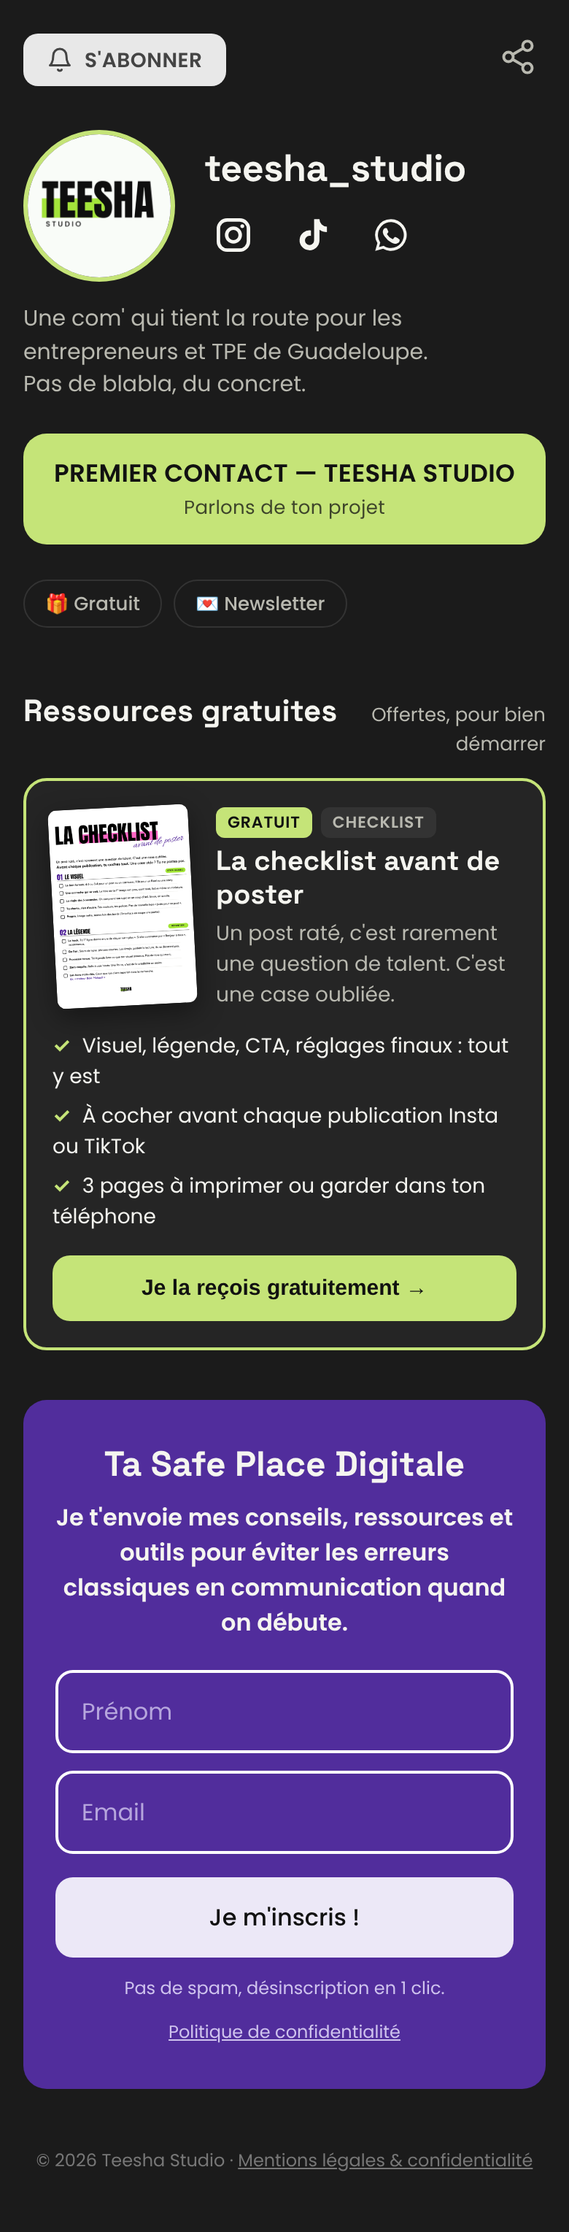
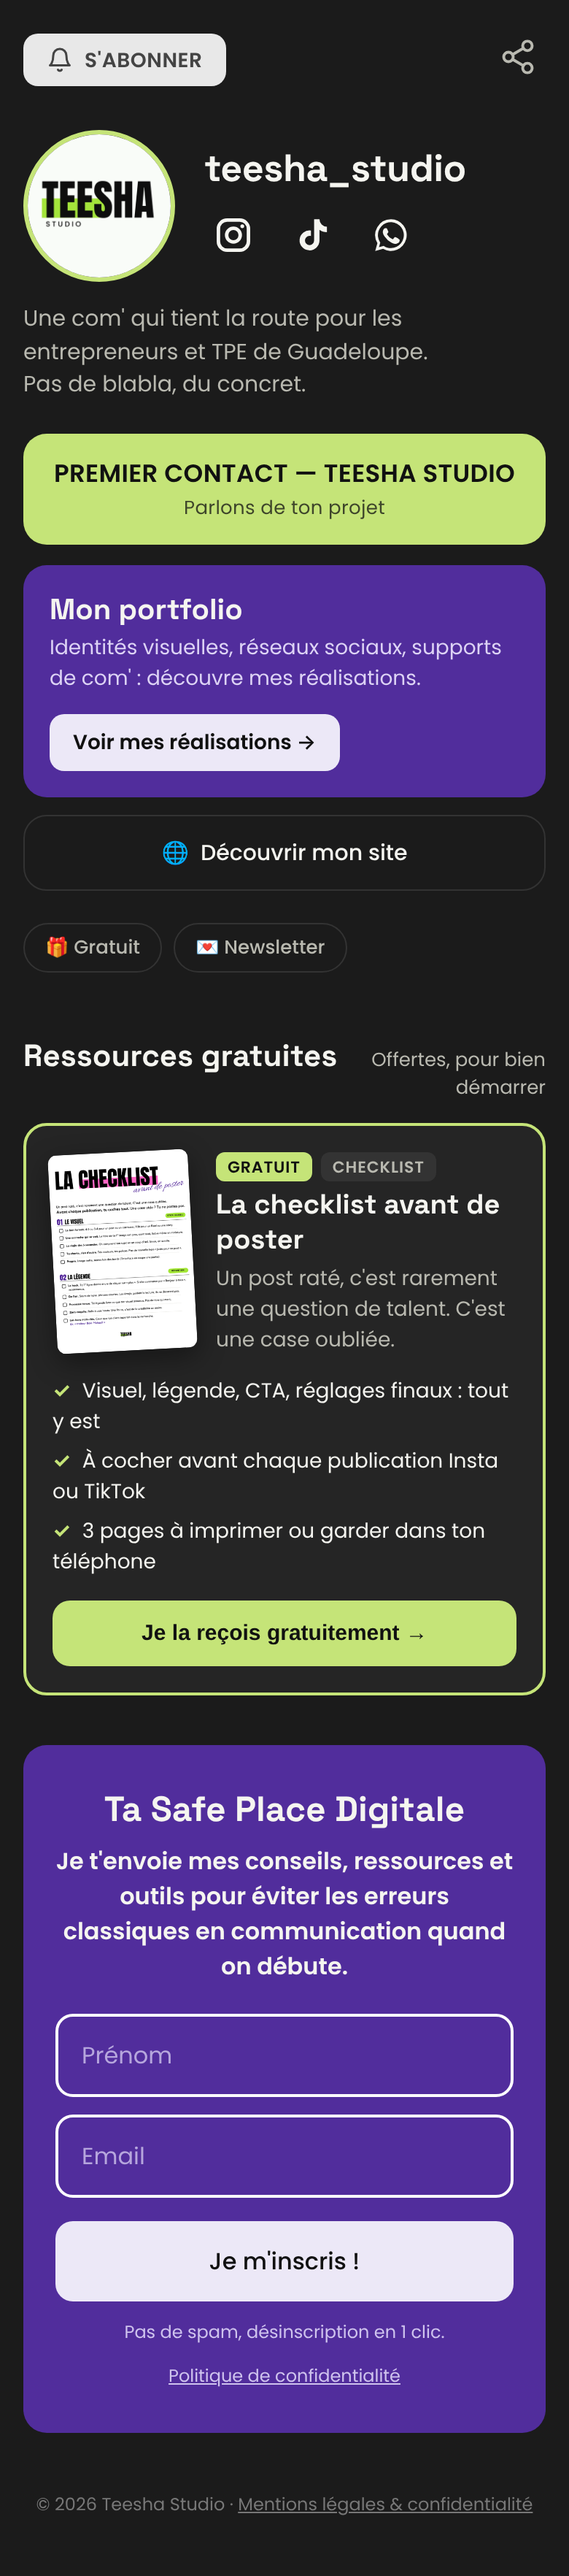
Add portfolio block and website button
Claude-Session: https://claude.ai/code/session_011nCQV3JxixBNaoiRmt3bag

diff --git a/link-in-bio/index.html b/link-in-bio/index.html
@@ -111,6 +111,25 @@
     .lien-principal small { text-transform: none; font-weight: 400; font-size: 13px; opacity: .75; }
     .lien-principal:hover { transform: translateY(-2px); box-shadow: 0 6px 0 var(--citron-fonce); }
 
+
+    /* Portfolio */
+    .portfolio {
+      display: block; background: var(--violet); border-radius: var(--rayon);
+      padding: 18px; margin-bottom: 12px; transition: transform .15s;
+    }
+    .portfolio:hover { transform: translateY(-2px); }
+    .portfolio-apercus { display: grid; grid-template-columns: repeat(3, 1fr); gap: 8px; margin-bottom: 14px; }
+    .portfolio-apercus img { width: 100%; aspect-ratio: 1; object-fit: cover; border-radius: 10px; background: #3d2276; }
+    .portfolio h2 { font: 700 20px/1.2 "Space Grotesk", sans-serif; }
+    .portfolio p { color: #ddd3f5; font-size: 14px; margin: 4px 0 14px; }
+    .portfolio .btn { background: var(--violet-clair); color: var(--noir); }
+    .lien-secondaire {
+      display: flex; align-items: center; justify-content: center; gap: 8px;
+      border: 1.5px solid var(--carte-bord); border-radius: var(--rayon); padding: 14px 18px; margin-bottom: 12px;
+      font-weight: 500; font-size: 15px; transition: border-color .2s, color .2s;
+    }
+    .lien-secondaire:hover { border-color: var(--citron); color: var(--citron); }
+
     /* Sections */
     section { margin-top: 34px; scroll-margin-top: 60px; }
     .titre-section { display: flex; align-items: baseline; justify-content: space-between; gap: 12px; margin-bottom: 14px; }
@@ -237,6 +256,8 @@
     <p class="bio" id="bio"></p>
 
     <div id="liens-principaux"></div>
+    <div id="portfolio"></div>
+    <div id="liens-secondaires"></div>
 
     <nav class="onglets" id="onglets" aria-label="Sections">
       <a href="#gratuit">🎁 Gratuit</a>

diff --git a/link-in-bio/app.js b/link-in-bio/app.js
@@ -81,6 +81,23 @@
     );
   });
 
+  // Portfolio
+  const P = C.portfolio;
+  if (P && P.lien) {
+    const apercus = (P.apercus || []).slice(0, 3);
+    $("portfolio").append(el("a", { class: "portfolio", ...attrsLien(P.lien) },
+      apercus.length ? el("div", { class: "portfolio-apercus" }, apercus.map((src) => el("img", { src, alt: "", loading: "lazy" }))) : null,
+      el("h2", {}, P.titre),
+      P.description ? el("p", {}, P.description) : null,
+      el("span", { class: "btn" }, P.bouton + " →"),
+    ));
+  }
+
+  // Boutons secondaires
+  (C.liensSecondaires || []).forEach((l) => {
+    $("liens-secondaires").append(el("a", { class: "lien-secondaire", ...attrsLien(l.lien) }, l.icone ? el("span", { "aria-hidden": "true" }, l.icone) : null, l.titre));
+  });
+
   const N = C.newsletter;
   const lienConfidentialite = C.pied.mentionsLegales && C.pied.mentionsLegales !== "#"
     ? el("small", {}, el("a", { href: C.pied.mentionsLegales + "#confidentialite" }, "Politique de confidentialité"))

diff --git a/link-in-bio/contenu.js b/link-in-bio/contenu.js
@@ -28,6 +28,21 @@ window.TEESHA = {
     { titre: "Premier contact — Teesha Studio", sousTitre: "Parlons de ton projet", lien: "https://formulairets.netlify.app/" },
   ],
 
+  // Bloc portfolio (sous les gros boutons verts)
+  // apercus : 3 images de projets déposées dans ce dossier, ex. ["projet-1.jpg", "projet-2.jpg", "projet-3.jpg"]
+  portfolio: {
+    titre: "Mon portfolio",
+    description: "Identités visuelles, réseaux sociaux, supports de com' : découvre mes réalisations.",
+    bouton: "Voir mes réalisations",
+    lien: "https://portfolio-teeshastudio.netlify.app/",
+    apercus: [],
+  },
+
+  // Boutons secondaires (plus discrets)
+  liensSecondaires: [
+    { icone: "🌐", titre: "Découvrir mon site", lien: "https://teeshastudiogp.netlify.app/" },
+  ],
+
   // RESSOURCES GRATUITES (lead magnets)
   // lien = ta page d'inscription (Systeme.io, MailerLite, Brevo, Kit...)
   // ou directement le fichier si tu ne demandes pas l'email.
